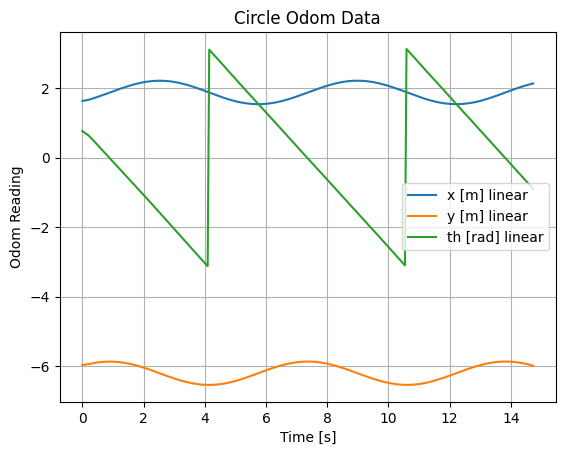
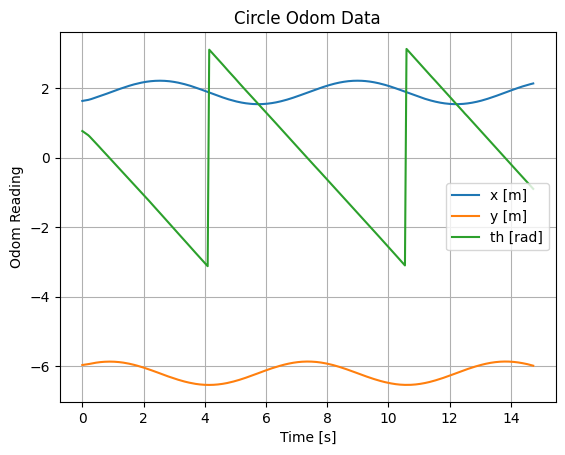
fix plot labels

Changed region(s): [[0.692, 0.4, 0.9628, 0.5538]]

diff --git a/motions.py b/motions.py
@@ -58,7 +58,7 @@ class motion_executioner(Node):
             os.mkdir("data")
         if not os.path.exists(dir):
             os.mkdir(dir)
-        self.imu_logger=Logger(f"{dir}/imu.csv", headers=["acc_x [m]", "acc_y [m]", "angular_z [rad]", "stamp"])
+        self.imu_logger=Logger(f"{dir}/imu.csv", headers=["acc_x [$m/s^2$]", "acc_y [$m/s^2$]", "angular_z [$rad/s^2$]", "stamp"])
         self.odom_logger=Logger(f"{dir}/odom.csv", headers=["x [m]","y [m]","th [rad]", "stamp"])
         self.laser_logger=Logger(f"{dir}/laser.csv", headers=["ranges [m]", "stamp"])
 

diff --git a/filePlotter.py b/filePlotter.py
@@ -32,7 +32,7 @@ def plot_errors(filename: str):
 
     plt.figure()
     for i in plot_order:
-        plt.plot(time_list, [lin[i] for lin in values], label= f"{headers[i]} linear")
+        plt.plot(time_list, [lin[i] for lin in values], label= headers[i])
     
     plt.title(f"{path_type} {sensor} Data")
     plt.xlabel("Time [s]")
